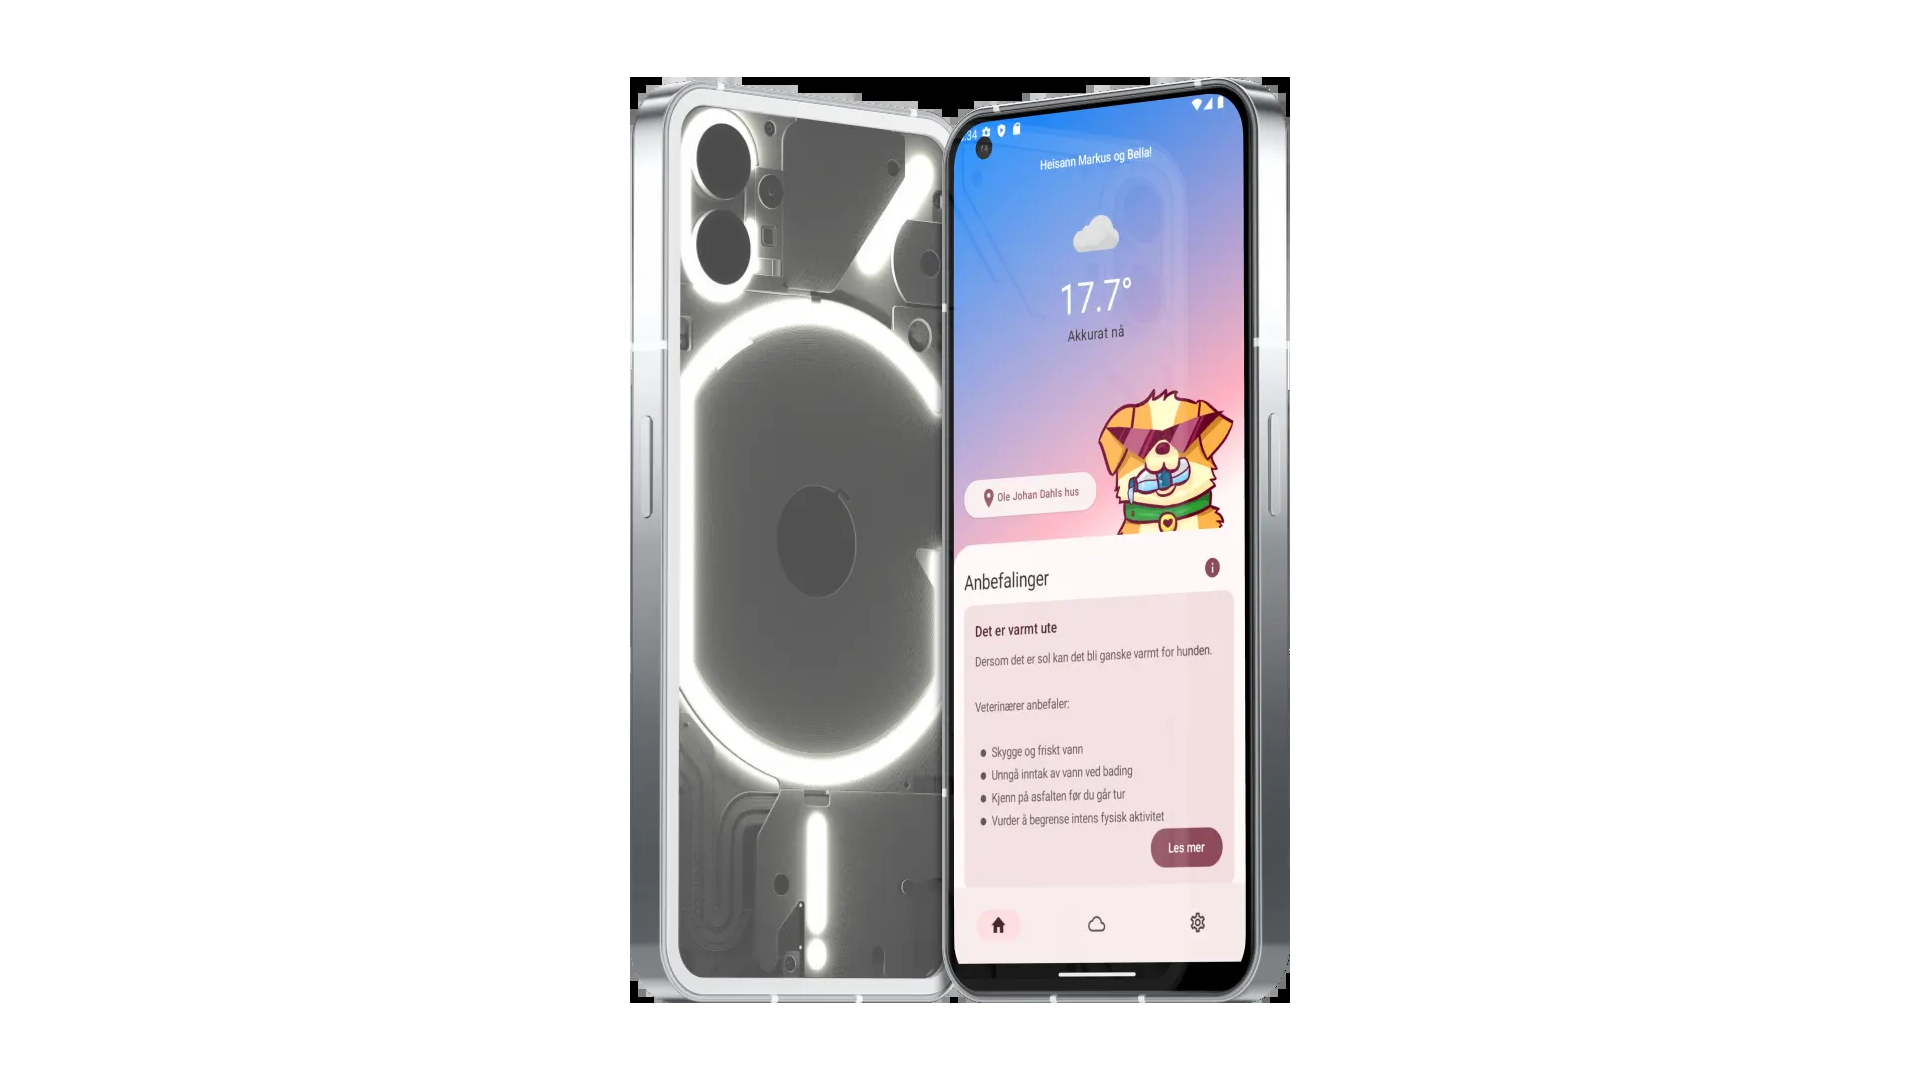
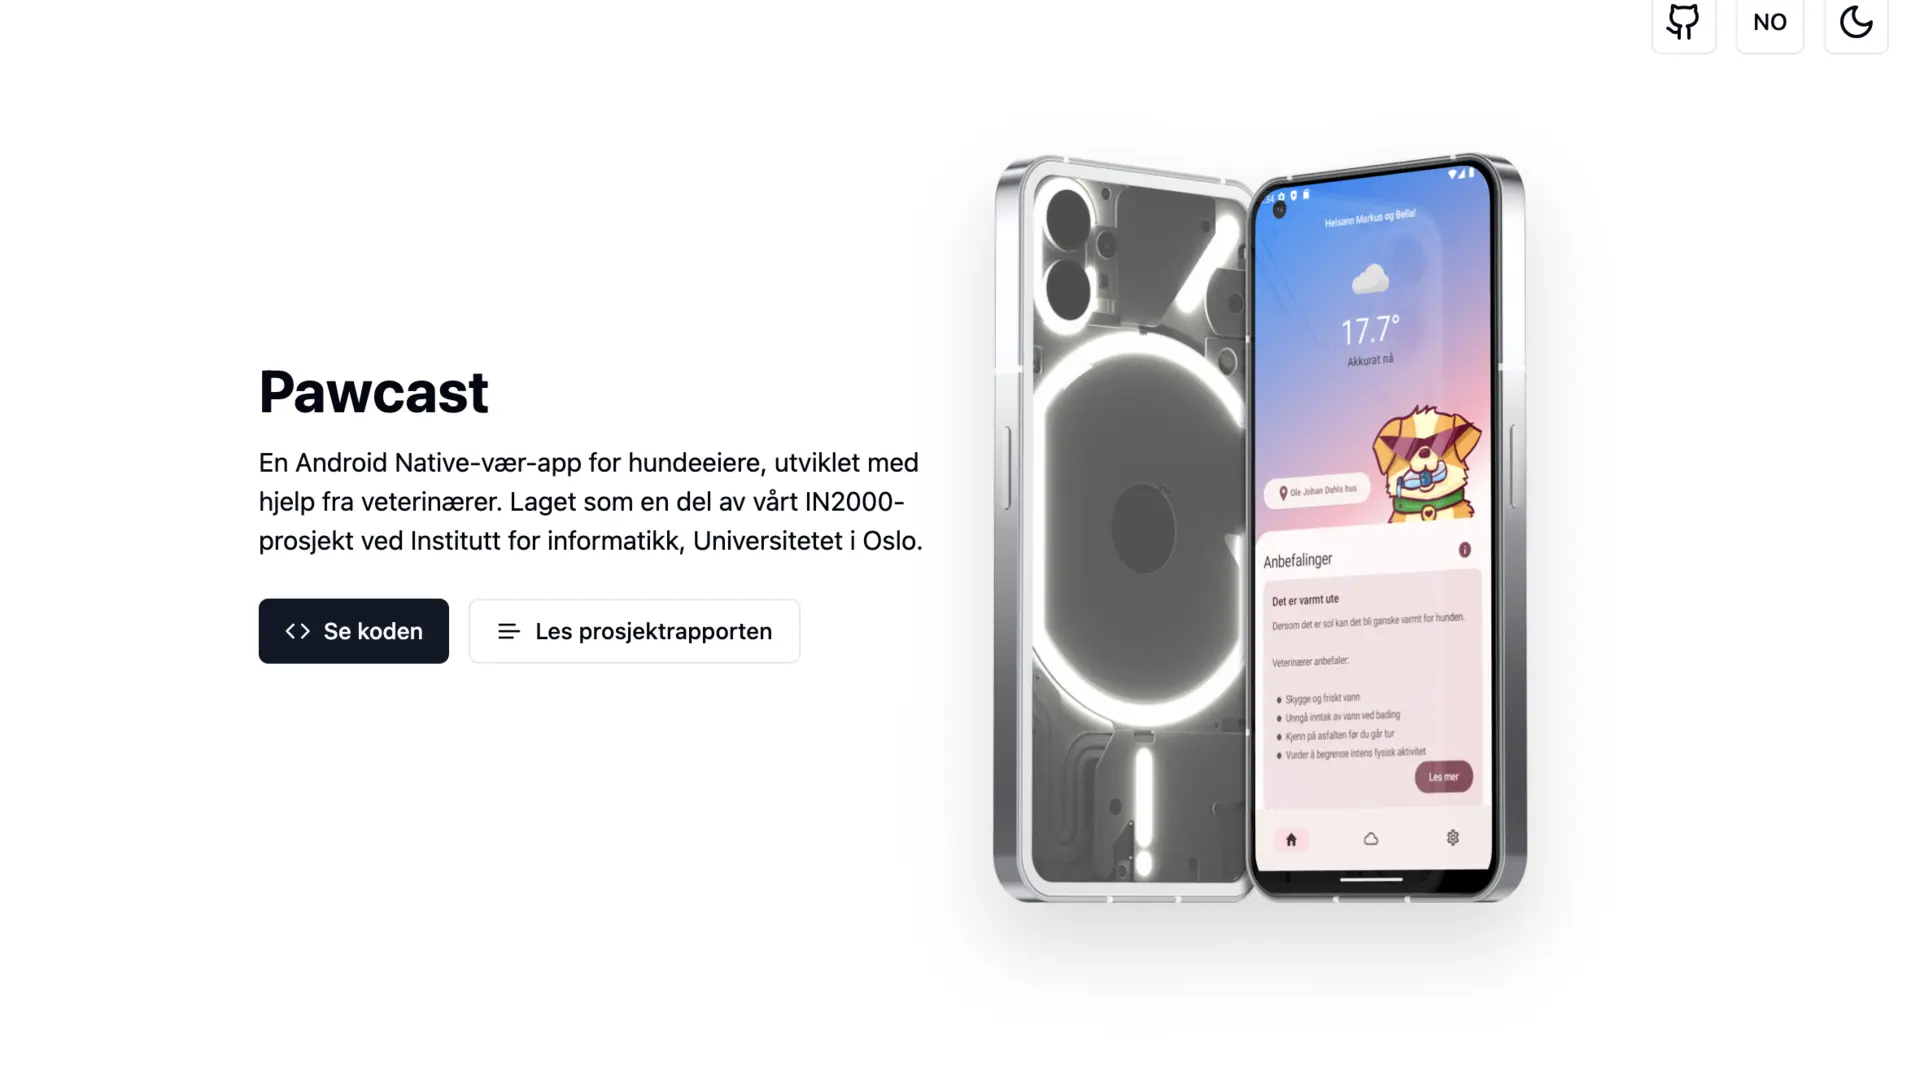
auto-scroll

diff --git a/2.0/src/App.tsx b/2.0/src/App.tsx
@@ -1,20 +1,18 @@
-import { useState, useEffect } from "react";
+import { useState, useEffect, useRef } from "react";
 import { useTranslation } from "react-i18next";
-import { motion } from "framer-motion"
-
-import { Wing } from "./assets/wing.tsx"
-import { Cloud_1 } from "./assets/Cloud_1.tsx"
-import { Cloud_2 } from "./assets/Cloud_2.tsx"
 import ExternalLinkButton from "./componets/Button.tsx";
 import ProjectItem from "./componets/ProjectItem.tsx";
 import { useSnapCarousel } from "react-snap-carousel";
 import { ChevronLeftCircle, ChevronRightCircle, ExternalLink, FileText, FlaskConical, GithubIcon } from "lucide-react";
+import WindowAnimation from "./componets/WindowAnimation.tsx";
 
 function App() {
 
   const [t] = useTranslation("main") // used for language
 
   const [age, setAge] = useState<string>("0.00000000"); // Store the age as a string to keep consistent formatting
+
+  // UseEffect for age updating
   useEffect(() => {
     const birthDate: Date = new Date("2003-08-28");
 
@@ -27,14 +25,24 @@ function App() {
       setAge(preciseAge);
     };
 
-    // Update the age every 10 milliseconds
-    const intervalId = setInterval(calculateAge, 100);
-
-    // Clear the interval when the component unmounts
-    return () => clearInterval(intervalId);
+    // Update the age every 100 milliseconds
+    const updateFrequency = setInterval(calculateAge, 100);
+    return () => clearInterval(updateFrequency);
   }, []);
 
+  const { scrollRef, snapPointIndexes, prev, next, goTo, activePageIndex, hasNextPage, hasPrevPage } = useSnapCarousel();
 
+  useEffect(() => {
+    const updateCarousel = () => {
+      goTo((activePageIndex + 1) % snapPointIndexes.size); // Directly use activePageIndex
+    };
+    const updateFrequency = setInterval(updateCarousel, 2000);
+
+    return () => clearInterval(updateFrequency);
+  }, [activePageIndex, snapPointIndexes]); // Dependencies: effect reruns when activePageIndex or snapPointIndexes change
+
+
+  // useEffect for autoScroll
   const [emailCopiedBadge, setEmailCopiedBadge] = useState(false)
   const copyMail = () => {
     const textToCopy = "markusevanger@gmail.com";
@@ -46,51 +54,15 @@ function App() {
 
   }
 
-  const { scrollRef, snapPointIndexes, prev, next, goTo, activePageIndex, hasNextPage, hasPrevPage } = useSnapCarousel();
 
 
 
   return (
     <div className="py-10 w-full overflow-x-hidden flex flex-col gap-8 justify-center items-center scroll-smooth">
-
       <div className="flex flex-col gap-2 items-center w-full max-w-[610px]">
 
-        <div className="grid grid-rows-1 grid-cols-1 w-[206px] h-[347px] rounded-b-[33px] rounded-t-[100px] shadow-xl hover:shadow-2xl overflow-hidden outline outline-red-600 outline-8 hover:scale-105 transition-all cursor-pointer">
 
-          <div className="row-start-1 grid grid-rows-3 h-full w-full">
-
-            <div className="">
-              <motion.div className="" animate={{ x: [200, -200] }} transition={{ repeat: Infinity, duration: 13, repeatType: "loop", ease: "linear" }}>
-                <Cloud_1 className={`scale-50 stroke-markusRed fill-white stroke-[8px]`}></Cloud_1>
-              </motion.div>
-            </div>
-
-            <div className="">
-              <motion.div animate={{ x: [200, -200] }} transition={{ repeat: Infinity, duration: 8, repeatType: "loop", ease: "linear" }}>
-                <Cloud_2 className={`scale-75 fill-white stroke-markusRed stroke-[8px]`}></Cloud_2>
-              </motion.div>
-            </div>
-
-            <div className="row-start-3">
-              <motion.div animate={{ x: [200, -200] }} transition={{ repeat: Infinity, duration: 5, repeatType: "loop", ease: "linear" }}>
-                <Cloud_2 className={`fill-white stroke-markusRed stroke-[8px]`}></Cloud_2>
-              </motion.div>
-
-              <motion.div animate={{ x: [200, -600] }} transition={{ repeat: Infinity, duration: 16, repeatType: "loop", ease: "linear" }}>
-                <svg width="929" height="255" viewBox="0 0 929 255" fill="none" xmlns="http://www.w3.org/2000/svg">
-                  <path className="translate-y-12 fill-markusRed scale-50" d="M420.099 75.95C493.511 11.6846 583.192 5.88436 671.19 32.1981C759.388 58.5717 844.971 117.041 908.013 179.588C911.346 182.895 916.728 182.874 920.034 179.541C923.34 176.209 923.319 170.827 919.987 167.52C855.529 103.568 767.612 43.2872 676.06 15.9107C584.308 -11.5255 487.989 -6.07566 408.901 63.1588C367.504 99.3988 321.077 121.978 277.873 130.745C234.561 139.534 195.217 134.333 167.12 116.14C132.232 93.5481 95.2664 106.465 66.3577 125.803C37.2557 145.27 13.453 172.995 2.54136 185.749C-0.51053 189.316 -0.0929356 194.681 3.47408 197.733C7.04109 200.785 12.4068 200.368 15.4587 196.801C26.4371 183.969 48.8844 157.944 75.8098 139.933C102.929 121.792 131.768 113.501 157.88 130.409C190.783 151.716 235.024 156.786 281.254 147.406C327.592 138.003 376.665 113.972 420.099 75.95ZM426.099 130.95C499.511 66.6846 589.192 60.8844 677.19 87.1981C765.388 113.572 850.971 172.041 914.013 234.588C917.346 237.895 922.728 237.874 926.034 234.541C929.34 231.209 929.319 225.827 925.987 222.52C861.529 158.568 773.612 98.2872 682.06 70.9107C590.308 43.4745 493.989 48.9243 414.901 118.159C373.504 154.399 327.077 176.978 283.873 185.745C240.561 194.534 201.217 189.333 173.12 171.14C138.232 148.548 101.266 161.465 72.3577 180.803C43.2557 200.27 19.453 227.995 8.54136 240.749C5.48947 244.316 5.90706 249.681 9.47408 252.733C13.0411 255.785 18.4068 255.368 21.4587 251.801C32.4371 238.969 54.8844 212.944 81.8098 194.933C108.929 176.792 137.768 168.501 163.88 185.409C196.783 206.716 241.024 211.786 287.254 202.406C333.592 193.003 382.665 168.972 426.099 130.95Z" />
-                </svg>
-              </motion.div>
-            </div>
-
-
-            <motion.div className="" animate={{ x: 5, y: 10 }} transition={{ repeat: Infinity, duration: 5, repeatType: "reverse" }}>
-              <Wing className={`translate-x-10 translate-y-20 fill-white stroke-markusRed stroke-[8px]`}></Wing>
-            </motion.div>
-
-          </div>
-        </div>
-
+        <WindowAnimation></WindowAnimation>
 
 
         <h1 className="mt-4 mb-1 transition-all text-xl font-bold">{t("hero.titleEmoji")} {t("hero.title")}</h1>
@@ -101,7 +73,6 @@ function App() {
 
         <div className="flex flex-col gap-2">
 
-
           <div className="w-full flex flex-col md:flex-row justify-center gap-2">
 
             <ExternalLinkButton to="cv" type="default">
@@ -109,9 +80,7 @@ function App() {
             </ExternalLinkButton>
 
             <a href="#portfolio">
-              <ExternalLinkButton to="" type="primary">
-                Portefølje
-              </ExternalLinkButton>
+              Portefølje
             </a>
 
 
@@ -190,10 +159,6 @@ function App() {
 
         </section>
       </div>
-
-
-
-
     </div>
   );
 }

diff --git a/2.0/src/componets/WindowAnimation.tsx b/2.0/src/componets/WindowAnimation.tsx
@@ -1,0 +1,48 @@
+import { motion } from "framer-motion";
+import { Cloud_1 } from "../assets/Cloud_1";
+import { Cloud_2 } from "../assets/Cloud_2";
+import { Wing } from "../assets/wing";
+
+
+
+
+
+export default function WindowFunction() {
+
+
+    return (
+        <div className="grid grid-rows-1 grid-cols-1 w-[206px] h-[347px] rounded-b-[33px] rounded-t-[100px] shadow-xl hover:shadow-2xl overflow-hidden outline outline-red-600 outline-8 hover:scale-105 transition-all cursor-pointer">
+            <div className="row-start-1 grid grid-rows-3 h-full w-full">
+
+                <div className="">
+                    <motion.div className="" animate={{ x: [200, -200] }} transition={{ repeat: Infinity, duration: 13, repeatType: "loop", ease: "linear" }}>
+                        <Cloud_1 className={`scale-50 stroke-markusRed fill-white stroke-[8px]`}></Cloud_1>
+                    </motion.div>
+                </div>
+
+                <div className="">
+                    <motion.div animate={{ x: [200, -200] }} transition={{ repeat: Infinity, duration: 8, repeatType: "loop", ease: "linear" }}>
+                        <Cloud_2 className={`scale-75 fill-white stroke-markusRed stroke-[8px]`}></Cloud_2>
+                    </motion.div>
+                </div>
+
+                <div className="row-start-3">
+                    <motion.div animate={{ x: [200, -200] }} transition={{ repeat: Infinity, duration: 5, repeatType: "loop", ease: "linear" }}>
+                        <Cloud_2 className={`fill-white stroke-markusRed stroke-[8px]`}></Cloud_2>
+                    </motion.div>
+
+                    <motion.div animate={{ x: [200, -600] }} transition={{ repeat: Infinity, duration: 16, repeatType: "loop", ease: "linear" }}>
+                        <svg width="929" height="255" viewBox="0 0 929 255" fill="none" xmlns="http://www.w3.org/2000/svg">
+                            <path className="translate-y-12 fill-markusRed scale-50" d="M420.099 75.95C493.511 11.6846 583.192 5.88436 671.19 32.1981C759.388 58.5717 844.971 117.041 908.013 179.588C911.346 182.895 916.728 182.874 920.034 179.541C923.34 176.209 923.319 170.827 919.987 167.52C855.529 103.568 767.612 43.2872 676.06 15.9107C584.308 -11.5255 487.989 -6.07566 408.901 63.1588C367.504 99.3988 321.077 121.978 277.873 130.745C234.561 139.534 195.217 134.333 167.12 116.14C132.232 93.5481 95.2664 106.465 66.3577 125.803C37.2557 145.27 13.453 172.995 2.54136 185.749C-0.51053 189.316 -0.0929356 194.681 3.47408 197.733C7.04109 200.785 12.4068 200.368 15.4587 196.801C26.4371 183.969 48.8844 157.944 75.8098 139.933C102.929 121.792 131.768 113.501 157.88 130.409C190.783 151.716 235.024 156.786 281.254 147.406C327.592 138.003 376.665 113.972 420.099 75.95ZM426.099 130.95C499.511 66.6846 589.192 60.8844 677.19 87.1981C765.388 113.572 850.971 172.041 914.013 234.588C917.346 237.895 922.728 237.874 926.034 234.541C929.34 231.209 929.319 225.827 925.987 222.52C861.529 158.568 773.612 98.2872 682.06 70.9107C590.308 43.4745 493.989 48.9243 414.901 118.159C373.504 154.399 327.077 176.978 283.873 185.745C240.561 194.534 201.217 189.333 173.12 171.14C138.232 148.548 101.266 161.465 72.3577 180.803C43.2557 200.27 19.453 227.995 8.54136 240.749C5.48947 244.316 5.90706 249.681 9.47408 252.733C13.0411 255.785 18.4068 255.368 21.4587 251.801C32.4371 238.969 54.8844 212.944 81.8098 194.933C108.929 176.792 137.768 168.501 163.88 185.409C196.783 206.716 241.024 211.786 287.254 202.406C333.592 193.003 382.665 168.972 426.099 130.95Z" />
+                        </svg>
+                    </motion.div>
+                </div>
+
+                <motion.div className="" animate={{ x: 5, y: 10 }} transition={{ repeat: Infinity, duration: 5, repeatType: "reverse" }}>
+                    <Wing className={`translate-x-10 translate-y-20 fill-white stroke-markusRed stroke-[8px]`}></Wing>
+                </motion.div>
+
+            </div>
+        </div>
+    )
+}

diff --git a/2.0/src/componets/ProjectItem.tsx b/2.0/src/componets/ProjectItem.tsx
@@ -8,7 +8,7 @@ export default function ProjectItem(props: { index: number, snapPointIndexes: Se
             style={{
                 scrollSnapAlign: props.snapPointIndexes.has(props.index) ? "start" : ""
             }}>
-            <div className=" aspect-video rounded-2xl outline shadow-md hover:shadow-xl transition-all overflow-hidden">
+            <div className=" aspect-video rounded-2xl outline outline-markusRed shadow-md hover:shadow-xl transition-all overflow-hidden">
                 <img className=" object-fill w-full h-full" src={props.imageUrl}></img>
             </div>
 

diff --git a/2.0/src/index.css b/2.0/src/index.css
@@ -1,3 +1,7 @@
 @tailwind base;
+
+html {
+    scroll-behavior: smooth
+};
 @tailwind components;
 @tailwind utilities;
